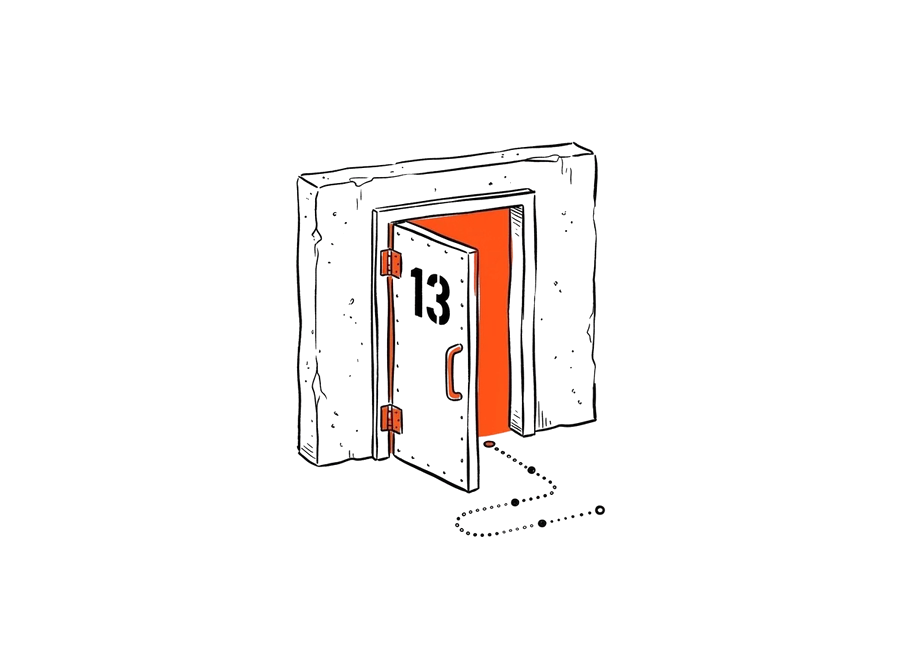
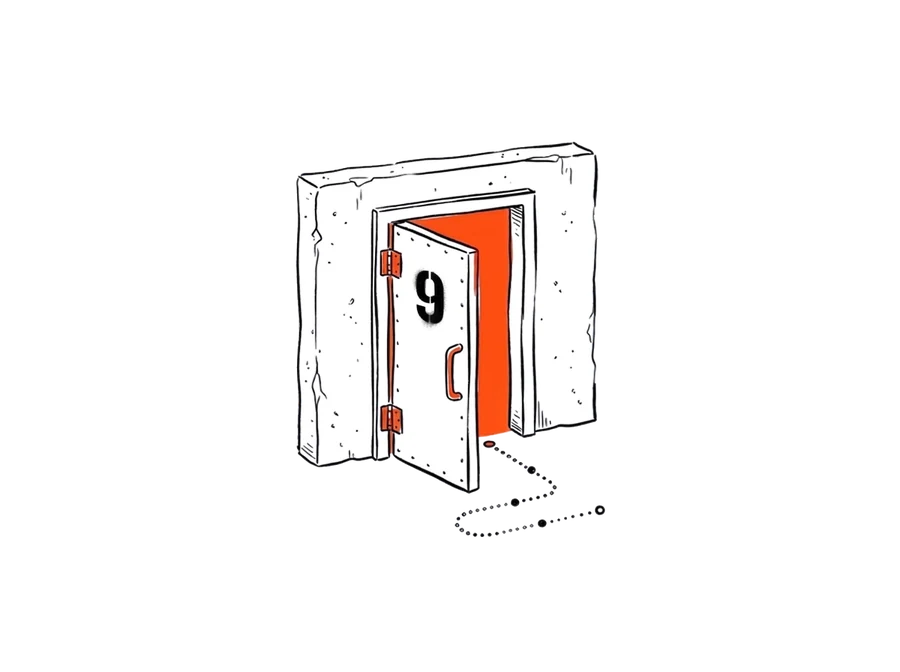
Rebrand to nine cup
New "9" logo in the same chopped style with the orange square, favicon
and touch icon, "nine" with a small "cup" under it, page title
NINE CUP, "Играем до девяти" and the login door numbered 9.

Claude-Session: https://claude.ai/code/session_01Uf9sVdwpueYAfnpZnbPFGL

diff --git a/frontend/src/components/Layout.jsx b/frontend/src/components/Layout.jsx
@@ -37,12 +37,15 @@ export default function Layout() {
 
       <header className="header">
         <div className="header-inner">
-          <Link to="/" className="brand" aria-label="THIRTEEN — на главную">
+          <Link to="/" className="brand" aria-label="NINE CUP — на главную">
             <span className="brand-mark">
               <img src="/img/logo-light.png" alt="" />
               <SantaHat />
             </span>
-            <span className="brand-word">thirteen</span>
+            <span className="brand-text">
+              <span className="brand-word">nine</span>
+              <span className="brand-sub mono">cup</span>
+            </span>
           </Link>
 
           <nav className="nav">
@@ -97,7 +100,7 @@ export default function Layout() {
       <footer className="footer">
         <div className="footer-inner">
           <img src="/img/logo.png" alt="" className="footer-mark" />
-          <span>Играем до тринадцати.</span>
+          <span>Играем до девяти.</span>
           <SnowToggle />
           <span className="footer-meta mono">2×2 · BO1 / BO3 / BO5 · {new Date().getFullYear()}</span>
         </div>

diff --git a/frontend/src/styles.css b/frontend/src/styles.css
@@ -1,4 +1,4 @@
-/* ───────── THIRTEEN · identity ─────────
+/* ───────── NINE CUP · identity ─────────
    Бумага, чернила и один акцент. Оранжевый — только там, куда должен
    падать взгляд: идущий турнир, победитель, пик, призовой. */
 :root {
@@ -165,6 +165,9 @@ html.has-cursor.cursor-text textarea { cursor: text !important; }
 .brand-mark img { width: 30px; }
 .brand:hover .brand-mark { rotate: -8deg; }
 .brand-word { font: 700 19px/1 var(--display); letter-spacing: -0.04em; }
+/* «nine cup»: «cup» — мелко и бледно под словом. */
+.brand-text { display: inline-grid; justify-items: end; gap: 2px; }
+.brand-sub { font-size: 8.5px; line-height: 1; letter-spacing: 0.22em; text-transform: uppercase; color: var(--muted); opacity: 0.7; margin-right: -0.22em; }
 
 .nav { display: flex; gap: 4px; }
 .nav-link {

diff --git a/frontend/src/pages/Login.jsx b/frontend/src/pages/Login.jsx
@@ -45,7 +45,10 @@ export default function Login() {
           <span className="brand-mark">
             <img src="/img/logo-light.png" alt="" />
           </span>
-          <span className="brand-word">thirteen</span>
+          <span className="brand-text">
+              <span className="brand-word">nine</span>
+              <span className="brand-sub mono">cup</span>
+            </span>
         </div>
 
         <h1>Вход</h1>
@@ -95,8 +98,8 @@ export default function Login() {
       </div>
 
       <div className="login-art">
-        <img src="/img/door.webp" alt="Приоткрытая дверь с номером 13" />
-        <p className="mono">Играем до тринадцати.</p>
+        <img src="/img/door.webp" alt="Приоткрытая дверь с номером 9" />
+        <p className="mono">Играем до девяти.</p>
       </div>
     </div>
   );

diff --git a/frontend/index.html b/frontend/index.html
@@ -3,9 +3,9 @@
   <head>
     <meta charset="UTF-8" />
     <meta name="viewport" content="width=device-width, initial-scale=1.0" />
-    <meta name="description" content="THIRTEEN — турниры CS2 2×2 среди друзей: сетки, драфт карт, статистика." />
+    <meta name="description" content="NINE CUP — турниры CS2 2×2 среди друзей: сетки, драфт карт, статистика." />
     <meta name="theme-color" content="#f4f2ee" />
-    <title>THIRTEEN — турниры CS2</title>
+    <title>NINE CUP — турниры CS2</title>
     <link rel="icon" type="image/png" href="/favicon.png" />
     <link rel="apple-touch-icon" href="/apple-touch-icon.png" />
     <link rel="preload" as="image" href="/img/cursor-64.png" />
